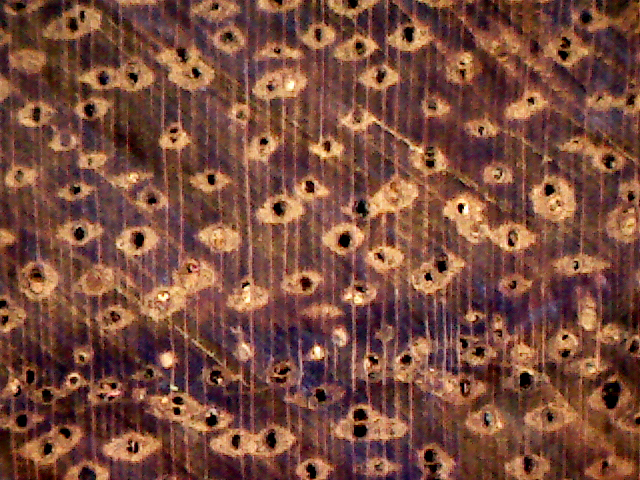
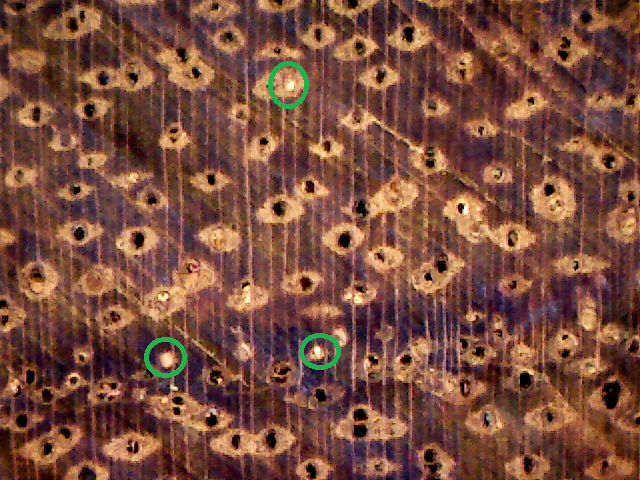
fix bugs on ilo3 and add marks on ilo2 tyloses and deposits

Changed region(s): [[0.4062, 0.125, 0.5, 0.25], [0.2188, 0.6875, 0.3125, 0.8125], [0.4688, 0.6875, 0.5312, 0.7812]]

diff --git a/src/modules/learning-module/components/learning-module/index.js b/src/modules/learning-module/components/learning-module/index.js
@@ -340,10 +340,9 @@ class Component extends TemplateLite(ObserversLite(HTMLElement)) {
       var sb = document.querySelector('.snackbar-lite');
       const y = event.clientY;
       // console.log(event.clientY);
-      if (dragged.id === target.id && ((y >= 160 && y <= 270) || (y >= 420 && y <= 470) || (y >= 610 && y <= 640))) {
-        target.src = '/assets/forestry/images/ilo1/phloem-blur.jpg'
+      if (dragged.id === target.id) {
         dragged.remove();
-        sb.showText('Correct!', 2000);
+        sb.showText('Correct!', 3000);
         const label = this.shadowRoot.querySelectorAll('#label');
         for (let item in label) {
           if (label[item].getAttribute('value').toLowerCase() === dragged.id) {
@@ -351,11 +350,39 @@ class Component extends TemplateLite(ObserversLite(HTMLElement)) {
           }
         }
       } else {
-        sb.showText('Not that one. Try again.', 2000);
+        sb.showText('Not that one. Try again.', 3000);
       }
     }
     this.requestUpdate();
   }
+
+  onDrop2 (event) {
+    this.canvas = event.target;
+    const target = this.canvas;
+    const dragged = this.dragged;
+    if (dragged && target) {
+      // const isLink = this._contains(event.dataTransfer.types, 'text/uri-list');
+      event.preventDefault();
+      var sb = document.querySelector('.snackbar-lite');
+      const y = event.clientY;
+      // console.log(event.clientY);
+      if (dragged.id === target.id && ((y >= 160 && y <= 270) || (y >= 420 && y <= 470) || (y >= 610 && y <= 640))) {
+        target.src = '/assets/forestry/images/ilo1/phloem2.jpg'
+        dragged.remove();
+        sb.showText('Correct!', 3000);
+        const label = this.shadowRoot.querySelectorAll('#label');
+        for (let item in label) {
+          if (label[item].getAttribute('value').toLowerCase() === dragged.id) {
+            label[item].style.zIndex = 100;
+          }
+        }
+      } else {
+        sb.showText('Not that one. Try again.', 3000);
+      }
+    }
+    this.requestUpdate();
+  }
+
 
   _multipleOption (event) {
     const { target } = event;
@@ -381,7 +408,7 @@ class Component extends TemplateLite(ObserversLite(HTMLElement)) {
     if (!answer && correct) {
       this.correctCount += 1;
       this.formCorrect.push(target.name);
-      sb.showText('Correct!', 2000);
+      sb.showText('Correct!', 3000);
       for (let i = 0; i < form[target.name].length; i++) {
         form[target.name][i].disabled = true;
       }
@@ -413,7 +440,7 @@ class Component extends TemplateLite(ObserversLite(HTMLElement)) {
     if (!answer && correct) {
       this.enumerateCorrect = true;
       this.formCorrect.push(target.name);
-      sb.showText('Correct!', 2000);
+      sb.showText('Correct!', 3000);
       for (let i = 0; i < form[target.name].length; i++) {
         form[target.name][i].disabled = true;
       }
@@ -533,9 +560,9 @@ class Component extends TemplateLite(ObserversLite(HTMLElement)) {
         target.disabled = true;
         this.correctCount += 1;
         this.formCorrect.push(target.id);
-        sb.showText('Correct!', 2000);
+        sb.showText('Correct!', 3000);
       } else {
-        sb.showText('Wrong option! Try again.', 2000);
+        sb.showText('Wrong option! Try again.', 3000);
       }
     }
 
@@ -579,7 +606,7 @@ class Component extends TemplateLite(ObserversLite(HTMLElement)) {
     target.classList.add('choice-answer');
 
     if (target.getAttribute('data-answer') === identify.getAttribute('data-answer')) {
-      sb.showText('Correct! Congratulations! You are one step forward to becoming a wood wizard.', 2000);
+      sb.showText('Correct! Congratulations! You are one step forward to becoming a wood wizard.', 3000);
       const next = this.shadowRoot.querySelector('#next');
       next.disabled = false;
       this.choiceCorrect = true;
@@ -589,7 +616,7 @@ class Component extends TemplateLite(ObserversLite(HTMLElement)) {
       //   choices[item].removeEventListener('click', this.select, true);
       // }
     } else {
-      sb.showText('Wrong answer! Try again.', 2000);
+      sb.showText('Wrong answer! Try again.', 3000);
     }
     // this._select();
   }
@@ -663,12 +690,12 @@ class Component extends TemplateLite(ObserversLite(HTMLElement)) {
     target.classList.add('choice3-answer');
 
     if (target.getAttribute('data-answer') === target.getAttribute('data-choice')) {
-      sb.showText('Your answer is correct! Good job!', 2000);
+      sb.showText('Your answer is correct! Good job!', 3000);
       const next = this.shadowRoot.querySelector('#next');
       next.disabled = false;
       this.choice3Correct = true;
     } else {
-      sb.showText('Ooopps, you picked the wrong answer. Come on, try again!', 2000);
+      sb.showText('Ooopps, you picked the wrong answer. Come on, try again!', 3000);
     }
   }
 }

diff --git a/src/modules/learning-module/components/learning-module/template.js b/src/modules/learning-module/components/learning-module/template.js
@@ -1,5 +1,5 @@
 const template = (html, self) => function () {
-  const { moduleObj, sceneObjects, _click, _dialogue, _form, _hide, onChange, onDragStart, onDragEnd, onDrop, onDragOver, onDragEnter, blink, select, ilo1select } = this;
+  const { moduleObj, sceneObjects, _click, _dialogue, _form, _hide, onChange, onDragStart, onDragEnd, onDrop, onDrop2, onDragOver, onDragEnter, blink, select, ilo1select } = this;
   if (!moduleObj) return html`Loading...`;
   const { events, baseURL } = moduleObj;
   // console.log(sceneObjects)
@@ -13,6 +13,24 @@ const template = (html, self) => function () {
         <div
           id="${item.objectId}"
           @drop="${onDrop.bind(this)}"
+          @dragover="${onDragOver.bind(this)}"
+          @dragenter="${onDragEnter.bind(this)}"
+        >
+        <lazy-picture
+            id="${item.answer}"
+            .cover="${item.meta && item.meta.cover}"
+            color="${item.color}"
+            class="absolute image ${item.meta && item.meta.fullscreen ? 'fullscreen' : ''} ${item.meta && item.meta.classList}"
+            style="${styleString}"
+            src="${item.src ? baseURL + item.src : ''}">
+        </lazy-picture>
+        </div>
+        ` : ''}
+
+        ${item.type === 'image2' ? html`
+        <div
+          id="${item.objectId}"
+          @drop="${onDrop2.bind(this)}"
           @dragover="${onDragOver.bind(this)}"
           @dragenter="${onDragEnter.bind(this)}"
         >
